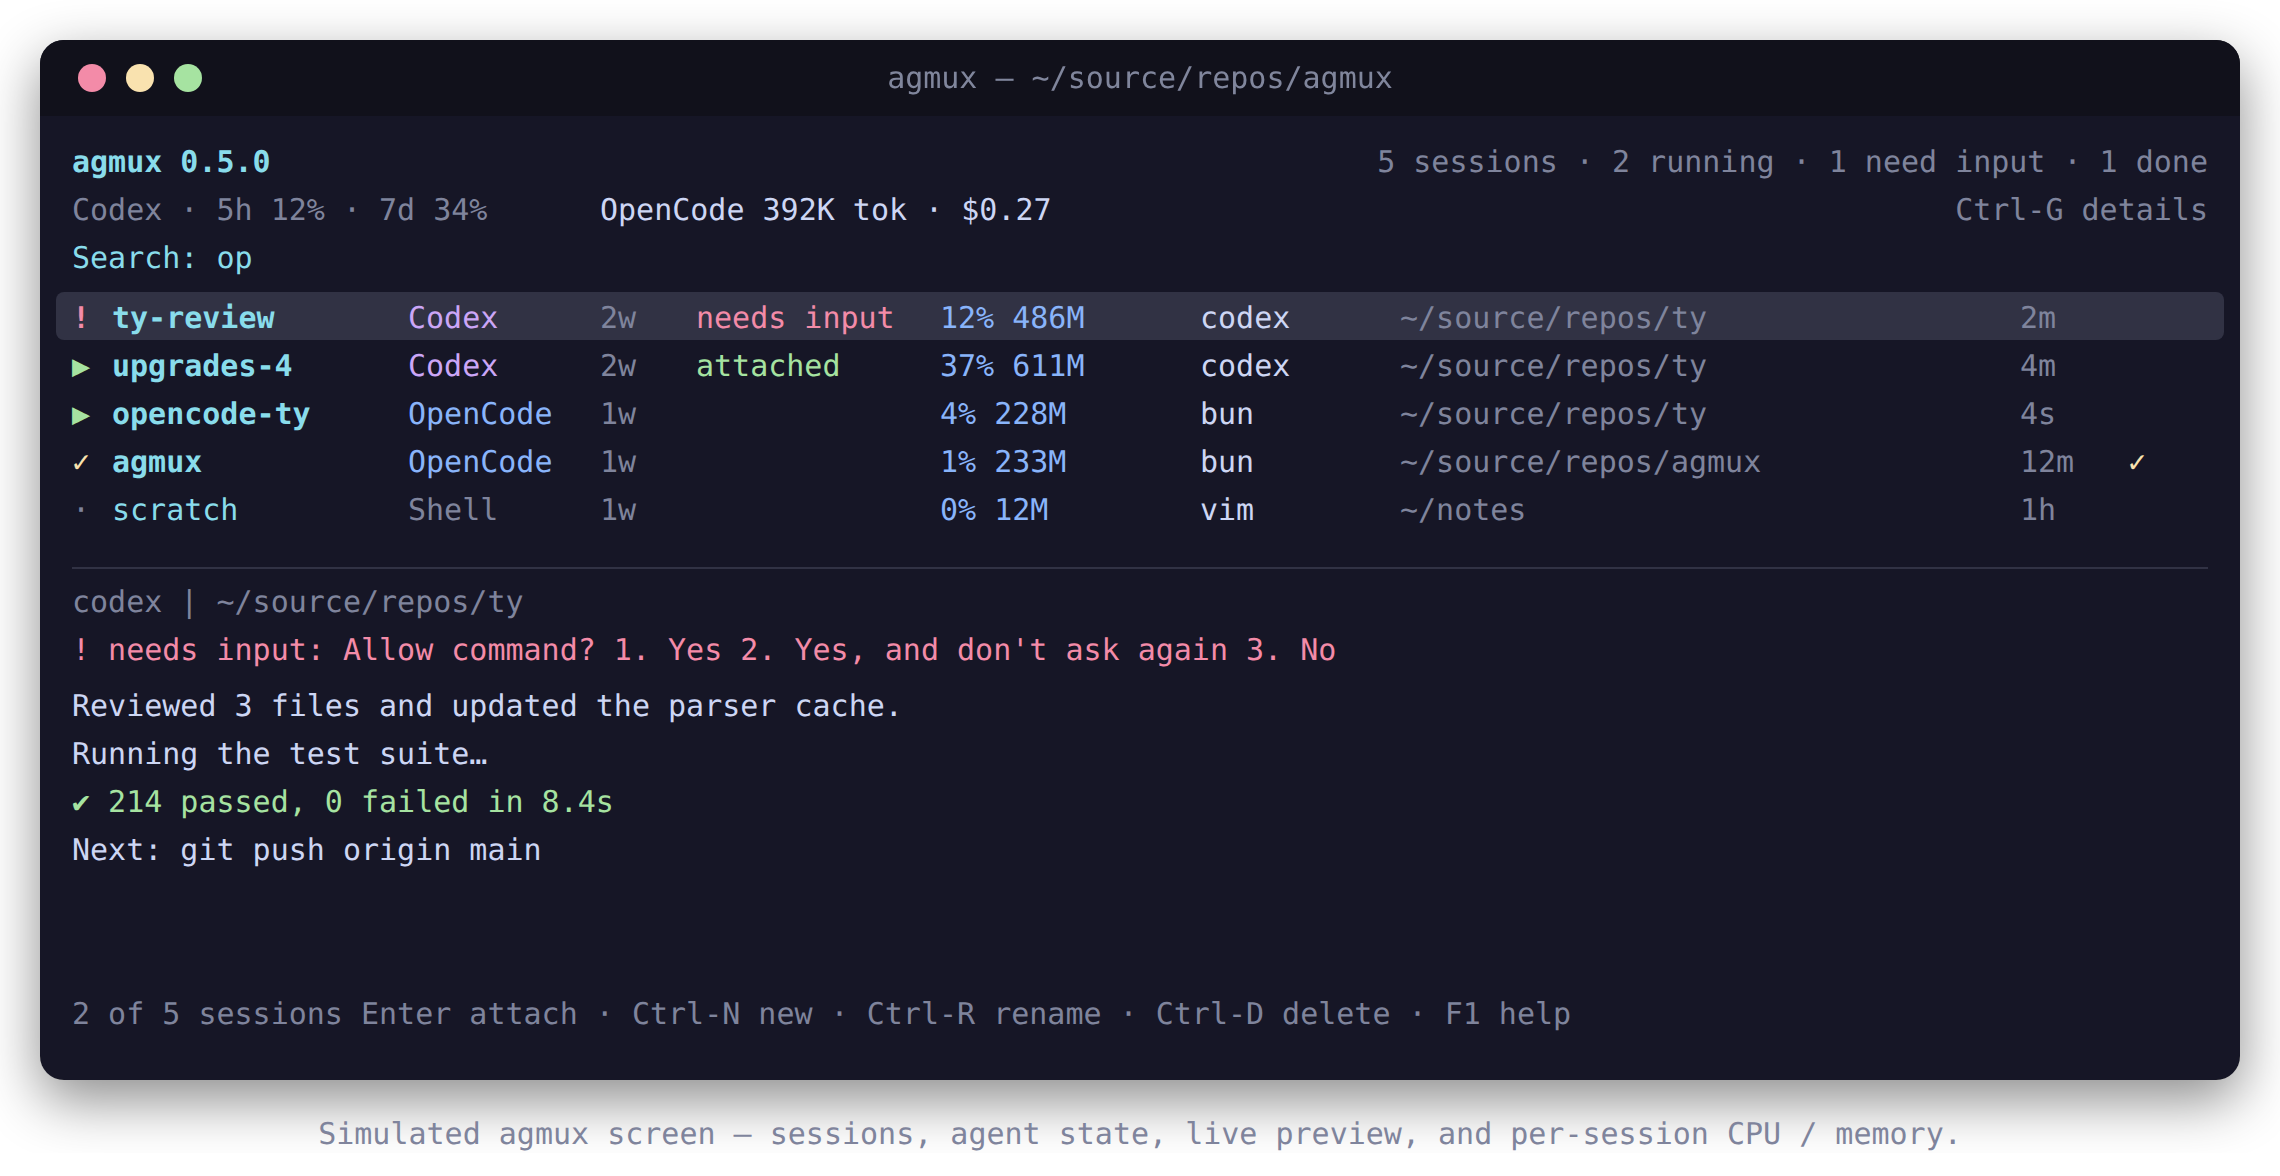
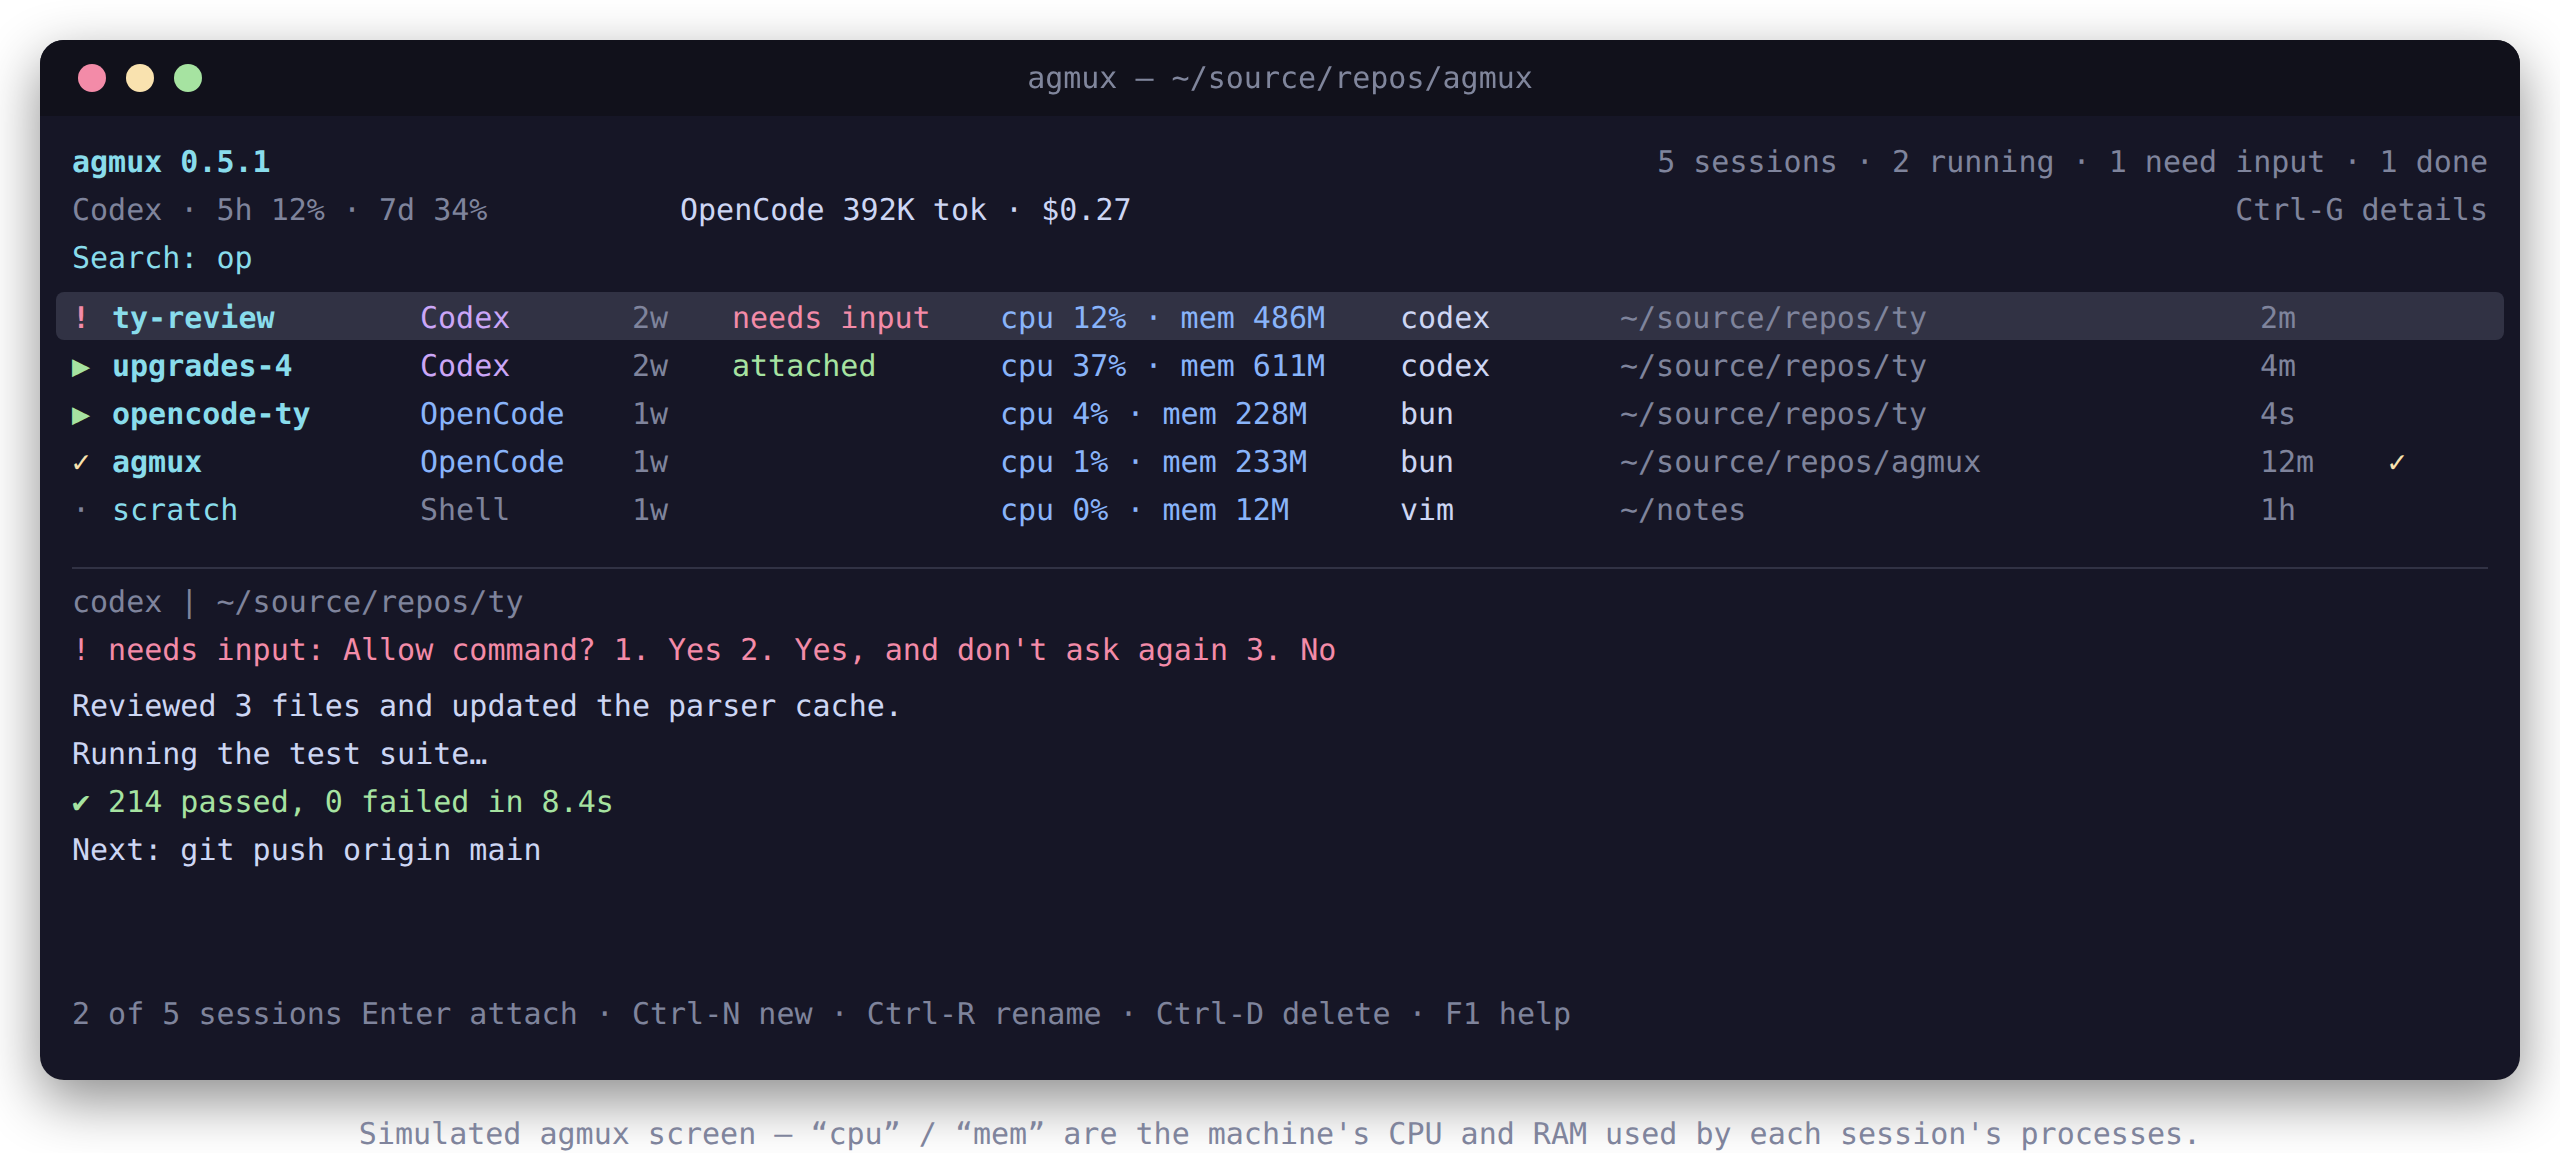
agmux 0.5.1: label per-session resources as cpu/mem
The bare "12% 486M" next to a session could be mistaken for token,
context-window, or rate-limit usage. Label both figures explicitly as
"cpu X% · mem Y" in the picker, `agmux list`, the help screen, the man page,
the README, and the screenshot, and say outright that they are this machine's
CPU and RAM for the session's processes.

Also fix the agent/state column spacing in `agmux list`.

diff --git a/agmux.py b/agmux.py
@@ -28,7 +28,7 @@ except ImportError:  # pragma: no cover - sqlite3 is in the standard library
 
 
 APP = "agmux"
-VERSION = "0.5.0"
+VERSION = "0.5.1"
 SELF = Path(__file__).resolve()
 
 
@@ -875,15 +875,17 @@ def process_usage(root_pids, table=None):
 
 
 def resource_label(cpu, rss):
-    """A short ``12% 340M`` style label, or empty when there is nothing to show."""
-    if not rss and not cpu:
-        return ""
+    """A short, unambiguous ``cpu 12% · mem 340M`` label, or empty.
+
+    The words are deliberate: this is this machine's CPU and memory for the
+    session's processes, not token or rate-limit usage.
+    """
     parts = []
     if cpu and cpu >= 0.5:
-        parts.append(f"{cpu:.0f}%")
+        parts.append(f"cpu {cpu:.0f}%")
     if rss:
-        parts.append(humanize_size(rss))
-    return " ".join(parts)
+        parts.append(f"mem {humanize_size(rss)}")
+    return " \u00b7 ".join(parts)
 
 
 # --------------------------------------------------------------------------
@@ -1635,7 +1637,8 @@ def show_help(screen, style=None):
              "Sessions whose agent finishes get a check mark and a notification.",
              "Previews and the viewer show the pane's own colors and styles, with the",
              "newest output at the bottom even if the pane has been scrolled up.",
-             "The CPU% and memory next to a session cover all of its panes' processes.",
+             "cpu X% and mem Y are this machine's CPU and RAM used by the session's",
+             "processes - not token, context-window, or rate-limit usage.",
              "Deleting ends a live session and its programs; project files stay on disk.",
              "This helper reads local tmux output, directory names, and Codex usage",
              "logs. It has no telemetry and makes no network requests.", "",
@@ -2106,9 +2109,9 @@ def list_line(row, enabled):
     state = f"{'attached' if row['attached'] else 'detached':<8}"
     segments = [(f"{glyph} ", role), (name, "heading")]
     if agent and not agent.is_shell:
-        segments.append((f" {agent.label:<8}", agent.accent))
+        segments.append((f" {agent.label:<9}", agent.accent))
     else:
-        segments.append((f" {'-':<8}", "muted"))
+        segments.append((f" {'-':<9}", "muted"))
     segments.append((f"{state}  ", "attached" if row["attached"] else "muted"))
     segments.append((f"{clean(row.get('process', '')):<10} ", "default"))
     segments.append((short_path(row.get("cwd", "")), "muted"))

diff --git a/tests/test_agmux.py b/tests/test_agmux.py
@@ -705,9 +705,14 @@ class Resources(unittest.TestCase):
         self.assertEqual(agmux.humanize_size(300 * 1024), "300M")
         self.assertEqual(agmux.humanize_size(2 * 1024 * 1024), "2.0G")
         self.assertEqual(agmux.resource_label(0, 0), "")
-        self.assertEqual(agmux.resource_label(12.4, 1024), "12% 1.0M")
-        self.assertEqual(agmux.resource_label(0.1, 1024), "1.0M")
-        self.assertEqual(agmux.resource_label(3.0, 0), "3%")
+        self.assertEqual(agmux.resource_label(12.4, 1024), "cpu 12% \u00b7 mem 1.0M")
+        self.assertEqual(agmux.resource_label(0.1, 1024), "mem 1.0M")
+        self.assertEqual(agmux.resource_label(3.0, 0), "cpu 3%")
+        # The label must say what it is, so it reads as machine use and not as
+        # token or context-window usage.
+        label = agmux.resource_label(12.4, 1024)
+        self.assertIn("cpu", label)
+        self.assertIn("mem", label)
 
     def test_process_usage_sums_only_the_tree(self):
         table = {

diff --git a/README.md b/README.md
@@ -9,19 +9,23 @@ terminal.
 ![The agmux picker: sessions with agent state, a live preview, and per-session CPU and memory](docs/screenshot.svg)
 
 ```
-agmux 0.5.0                    5 sessions · 2 running · 1 need input · 1 done
-Codex · 5h 12% · 7d 34%      OpenCode 392K tok · $0.27      Ctrl-G details
+agmux 0.5.1                     5 sessions · 2 running · 1 need input · 1 done
+Codex · 5h 12% · 7d 34%       OpenCode 392K tok · $0.27        Ctrl-G details
 Search:
-! ty-review   Codex    2w  needs input  12% 486M  codex  ~/source/repos/ty   2m
-▶ upgrades-4  Codex    2w  attached     37% 611M  codex  ~/source/repos/ty   4m
-▶ opencode-ty OpenCode 1w                4% 228M  bun    ~/source/repos/ty   4s
-✓ agmux       OpenCode 1w                1% 233M  bun    ~/source/repos/agmux 12m ✓
-· scratch     Shell    1w                0%  12M  vim    ~/notes             1h
-──────────────────────────────────────────────────────────────────────────────
+! ty-review    Codex    2w  needs input  cpu 12% · mem 486M  codex  ~/source/repos/ty     2m
+▶ upgrades-4   Codex    2w  attached     cpu 37% · mem 611M  codex  ~/source/repos/ty     4m
+▶ opencode-ty  OpenCode 1w                cpu  4% · mem 228M  bun    ~/source/repos/ty     4s
+✓ agmux        OpenCode 1w                cpu  1% · mem 233M  bun    ~/source/repos/agmux  12m ✓
+· scratch      Shell    1w                cpu  0% · mem  12M  vim    ~/notes               1h
+──────────────────────────────────────────────────────────────────────────────────────────
 codex  |  ~/source/repos/ty
 ! needs input: Allow command?  1. Yes  2. Yes, and don't ask again  3. No
 1 of 5 sessions   Enter attach · Ctrl-N new · Ctrl-R rename · Ctrl-D delete · F1 help
 ```
+
+Here `cpu` is the machine's CPU usage and `mem` is resident RAM — both for the
+session's own processes, **not** token, context-window, or rate-limit usage
+(those are the percentages in the line above, from `Ctrl-G`).
 
 ## Why
 
@@ -35,8 +39,9 @@ questions and stays out of the way.
   binaries you already have. No pip, no plugins, no daemon, no network.
 - **Agent-aware.** Knows Codex, OpenCode, Claude Code, Gemini, Aider, Crush, and
   Goose, and can launch any of them — or a plain shell — in a tmux session.
-- **Resource use per session.** A compact `CPU%` and memory figure next to each
-  session, summed across all of that session's panes and their child processes.
+- **Resource use per session.** A labelled `cpu X% · mem Y` figure next to each
+  session, summed across all of that session's panes and their child processes —
+  machine CPU and RAM, kept visually distinct from token and rate-limit usage.
 - **Tells you when it's done.** Agent sessions started by agmux are flagged
   `✓` when they finish and fire a desktop notification.
 - **Tells you when it needs you.** If an agent is waiting on a permission or
@@ -149,11 +154,13 @@ labelled even if agmux did not start it.
 
 ### CPU and memory per session
 
-Each row shows `CPU%` and resident memory for the whole session: the active
-process in every pane plus its descendants. It is sampled once per refresh from
-`ps` (pid, parent, CPU%, RSS only), so one query covers every session, and is
-off by default on platforms without a compatible `ps`. Set `AGMUX_RESOURCES=0`
-or pass `--no-resources` to hide it. In JSON it is `cpu` (percent) and `rss`
+Each row shows `cpu X%` and `mem Y` for the whole session: the active process in
+every pane plus its descendants. The `cpu` and `mem` words are deliberate —
+these are the machine's CPU and RAM used by that session, not token,
+context-window, or rate-limit figures. It is sampled once per refresh from `ps`
+(pid, parent, CPU%, RSS only), so one query covers every session, and is off by
+default on platforms without a compatible `ps`. Set `AGMUX_RESOURCES=0` or pass
+`--no-resources` to hide it. In JSON the fields are `cpu` (percent) and `rss`
 (kibibytes):
 
 ```bash

diff --git a/CHANGELOG.md b/CHANGELOG.md
@@ -4,6 +4,14 @@ All notable changes to agmux are documented here. The format is loosely based
 on [Keep a Changelog](https://keepachangelog.com/), and the project follows
 [semantic versioning](https://semver.org/).
 
+## [0.5.1]
+
+### Changed
+- Label the per-session resource figures explicitly as `cpu X%` and `mem Y`
+  everywhere (picker, `agmux list`, screenshot), so they read as machine CPU and
+  RAM rather than token, context-window, or rate-limit usage. Help text and the
+  README say so outright.
+
 ## [0.5.0]
 
 ### Added
@@ -38,4 +46,5 @@ on [Keep a Changelog](https://keepachangelog.com/), and the project follows
 ## [0.2.0]
 - Agent-aware tmux session manager.
 
+[0.5.1]: https://github.com/T-Lind/agmux/compare/v0.5.0...v0.5.1
 [0.5.0]: https://github.com/T-Lind/agmux/compare/v0.4.0...v0.5.0
